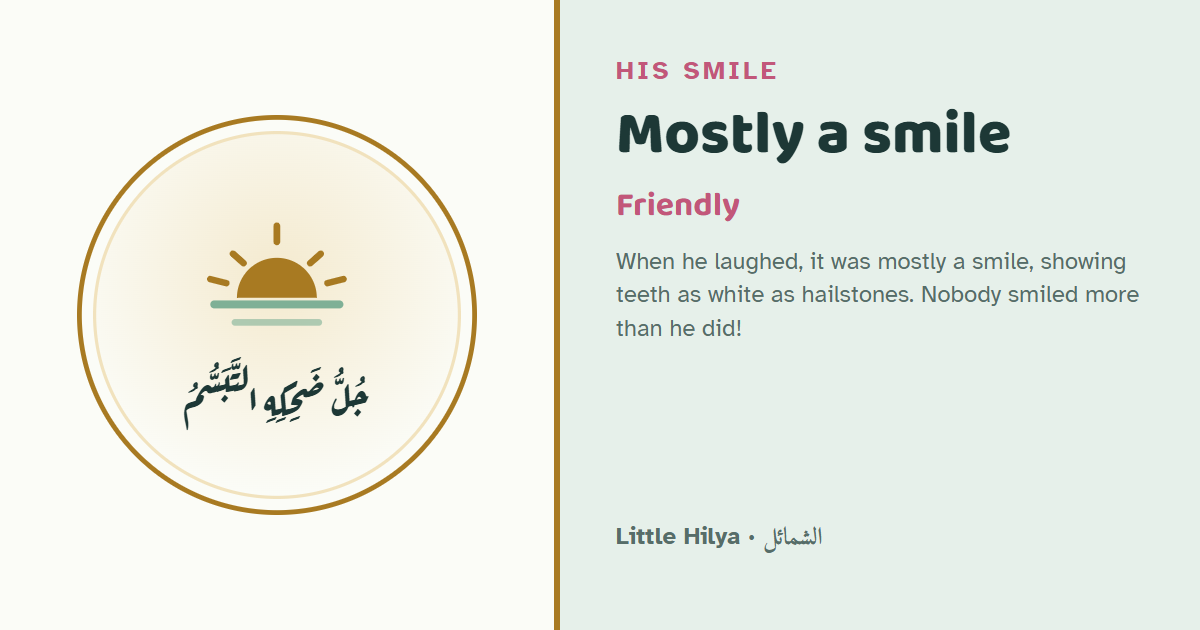
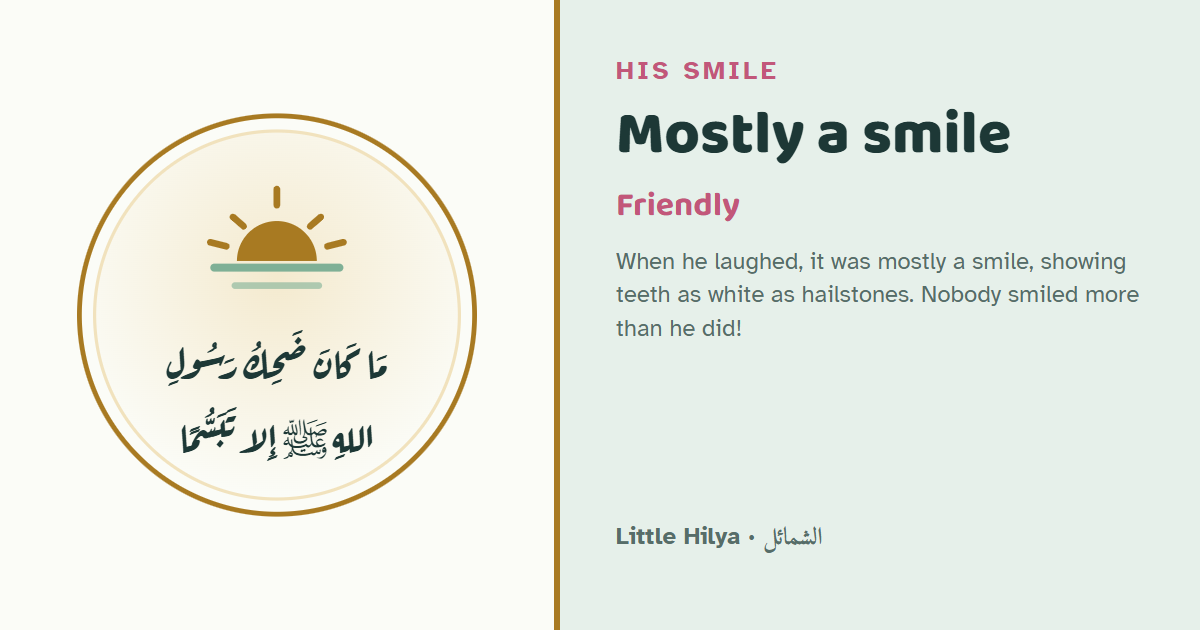
Lead the smile station with sound reports and add the rain sign

diff --git a/src/data/stations/14-smile.ts b/src/data/stations/14-smile.ts
@@ -5,10 +5,15 @@ export default defineStation({
   id: "smile",
   name: "His smile",
   icon: "sunrise",
-  phrase: "جُلُّ ضَحِكِهِ التَّبَسُّمُ",
+  phrase: "مَا كَانَ ضَحِكُ رَسُولِ اللهِ ﷺ إِلا تَبَسُّمًا",
   title: "Mostly a smile",
   line: "When he laughed, it was mostly a smile, showing teeth as white as hailstones. Nobody smiled more than he did!",
   physical: [
+    {
+      ref: "shamail:227",
+      phrase: "مَا كَانَ ضَحِكُ رَسُولِ اللهِ ﷺ إِلا تَبَسُّمًا",
+      gloss: "His laughter was nothing but a smile.",
+    },
     {
       ref: "shamail:224",
       phrase: "جُلُّ ضَحِكِهِ التَّبَسُّمُ، يَفْتَرُّ عَنْ مِثْلِ حَبِّ الْغَمَامِ",
@@ -16,10 +21,9 @@ export default defineStation({
         "Most of his laughter was in the form of a smile that revealed teeth as white as hailstones.",
     },
     {
-      ref: "shamail:226",
-      phrase: "مَا رَأَيْتُ أَحَدًا أَكْثَرَ تَبَسُّمًا مِنْ رَسُولِ اللهِ ﷺ",
-      gloss: "I have not seen anyone with a more cheerful countenance than Allah’s Messenger!",
-      note: "The Arabic is more direct: “I have not seen anyone who smiled more”.",
+      ref: "tirmidhi:3641",
+      phrase: "مَا رَأَيْتُ أَحَدًا أَكْثَرَ تَبَسُّمًا مِنْ رَسُولِ اللَّهِ ﷺ",
+      gloss: "I have not seen anyone who smiled more than the Messenger of Allah.",
     },
   ],
   character: [
@@ -39,6 +43,13 @@ export default defineStation({
       review: draft(),
     },
   ],
-  signs: [],
+  signs: [
+    {
+      kind: "mujiza",
+      title: "Rain around us",
+      line: "It rained for a whole week, and a man asked him to pray for it to stop. He smiled and prayed: “Around us, not on us.” The clouds opened up around Madina like a crown.",
+      ref: "bukhari:3582",
+    },
+  ],
   mirror: "Practise a smile that reaches your eyes. Who could use one today?",
 });
